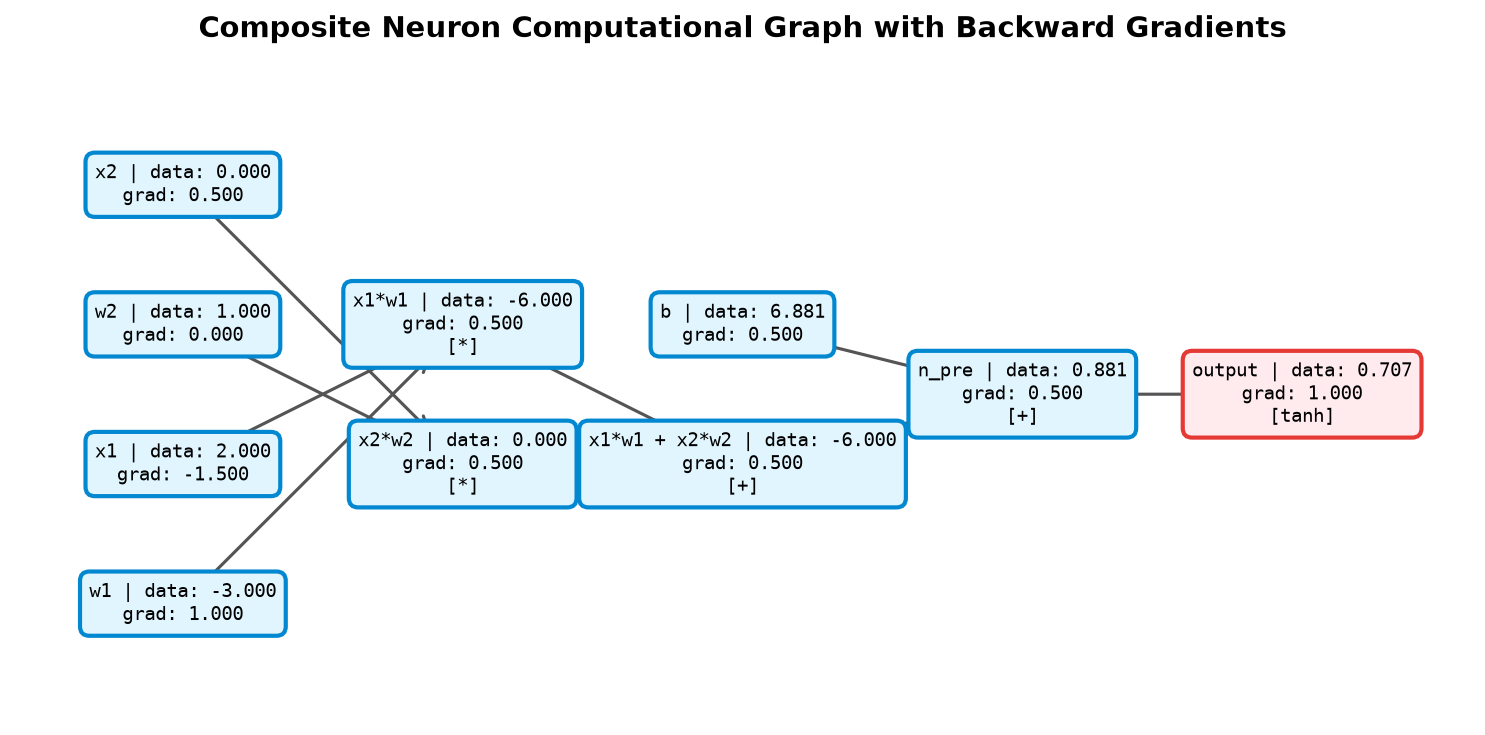
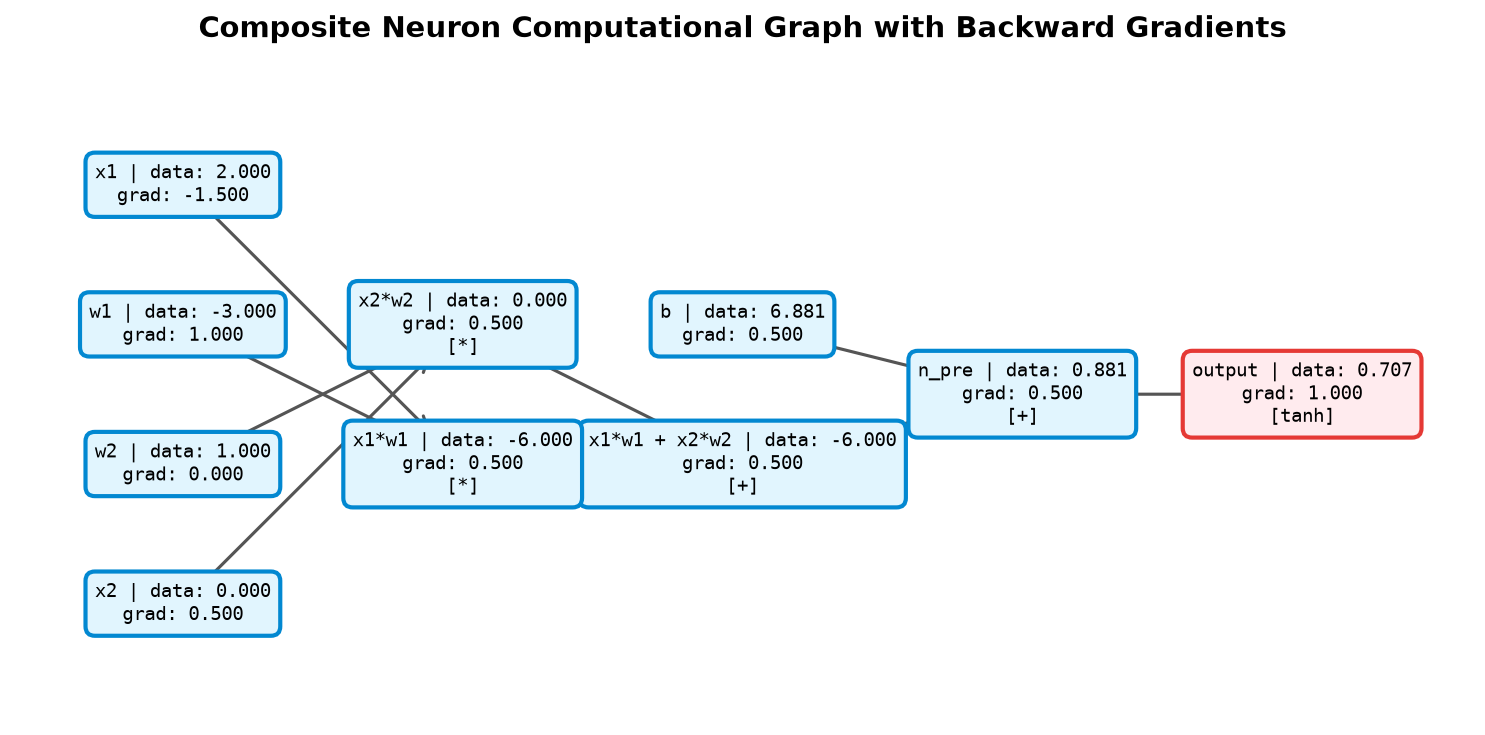
Update academic term to Fall 2026 across report and demo notebook

diff --git a/report/report.tex b/report/report.tex
@@ -49,7 +49,7 @@
 
 \title{\textbf{CSE485-CSE488: Deep Learning}\\ \Large Assignment 1: MicroGrad (Scalar Autograd Engine)\\\large Design, Mathematical Foundations, and Empirical Verification}
 \author{\textbf{Ahmed Mostafa} \\ Student ID: 23p0375 \\ Department of Computer and Systems Engineering \\ Faculty of Engineering, Ain Shams University}
-\date{Spring 2026}
+\date{Fall 2026}
 
 \begin{document}
 
